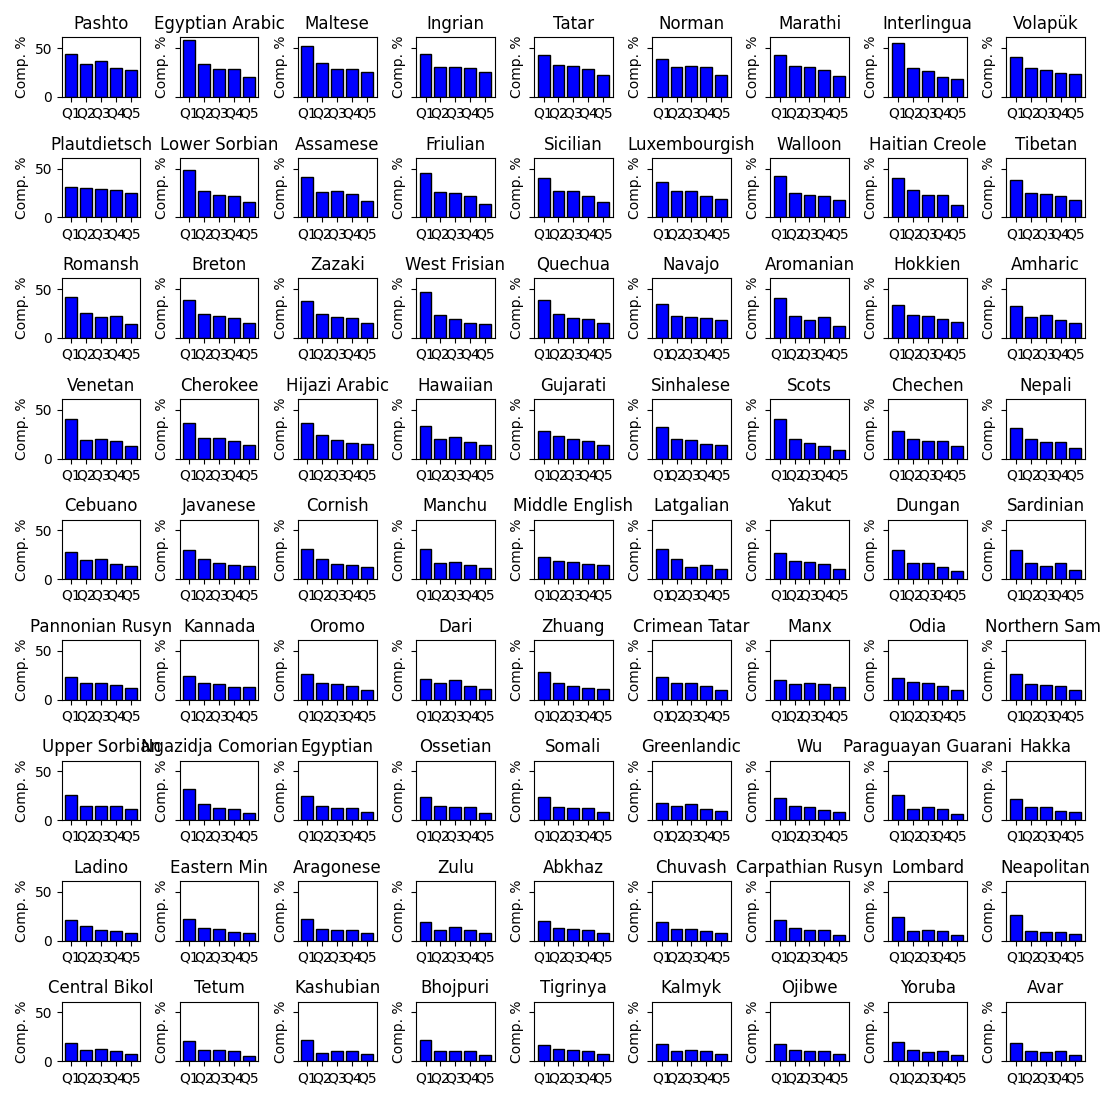
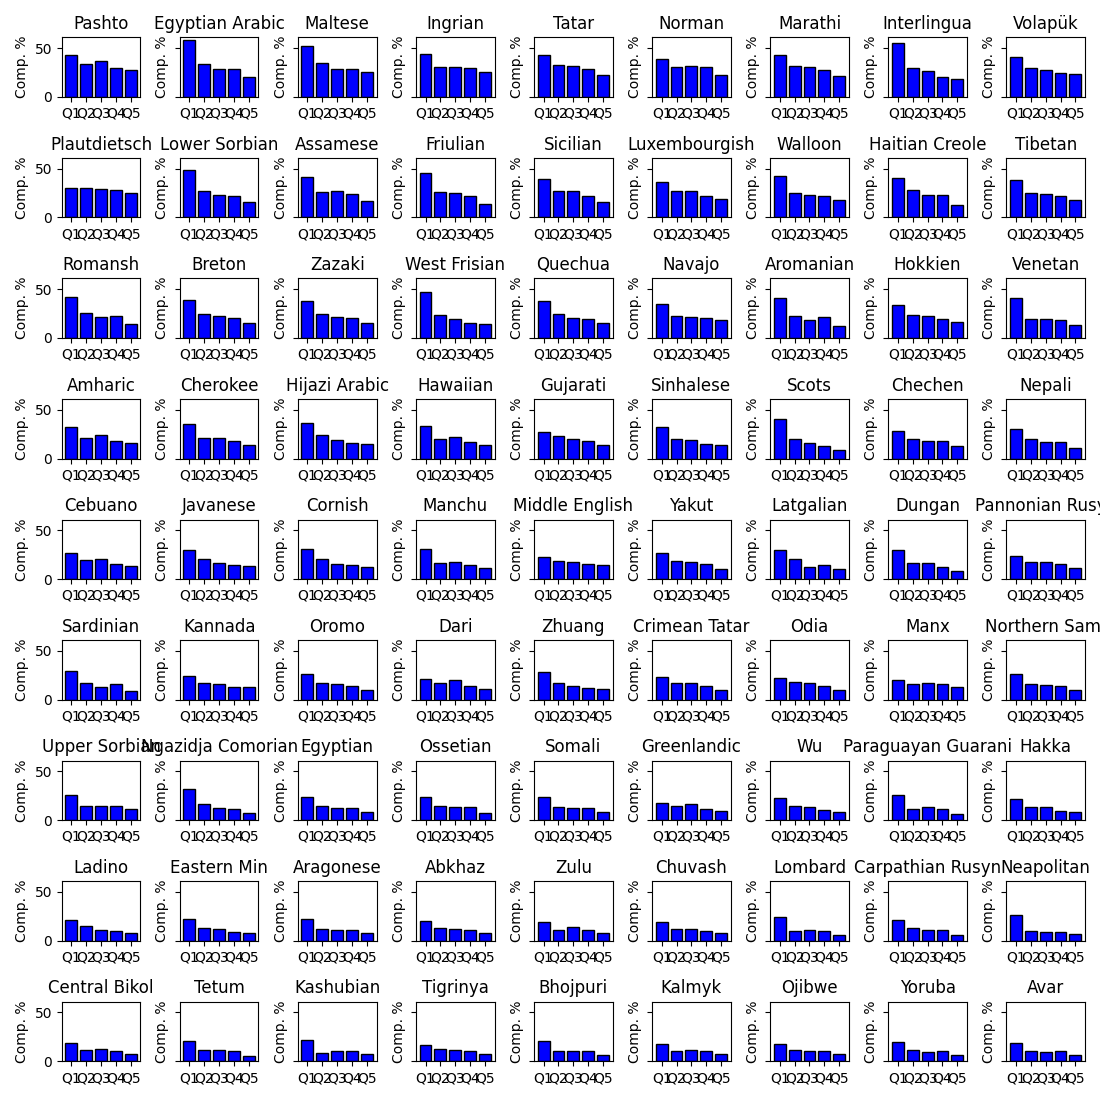
Add 'Particle', 'Punctuation mark', and 'Postposition' parts of speech
In particular, if this text is seen in h3, h4, or h5, we consider this
the part of speech.

This adding of categories decreases completion percentage slightly for
several languages. Words that previously had missing part of speech now
had part of speech assigned, so there were fewer translation table
entries that were considered when determining if any translation table
entry had a completion. (Because words with missing part of speech
would be counted as translated if any entry had a translation.)

diff --git a/src/run_trans_stats_newgsl.py b/src/run_trans_stats_newgsl.py
@@ -45,7 +45,7 @@ LANG_DICT = {item[0]: item[1].split(' ', maxsplit=1)[1].replace(':','')
 _PART_OF_SPEECH = ['Adjective','Adverb','Noun','Verb','Conjunction',
    'Contraction','Derived terms','Determiner','Interjection','Article',
    'Number','Numeral','Phrase','Prefix','Preposition','Prepositional phrase',
-   'Pronoun','Proper noun','Suffix']
+   'Pronoun','Proper noun','Suffix','Particle','Punctuation mark','Postposition']
 
 #------------------------------------------------------------------------------
 # Functions
